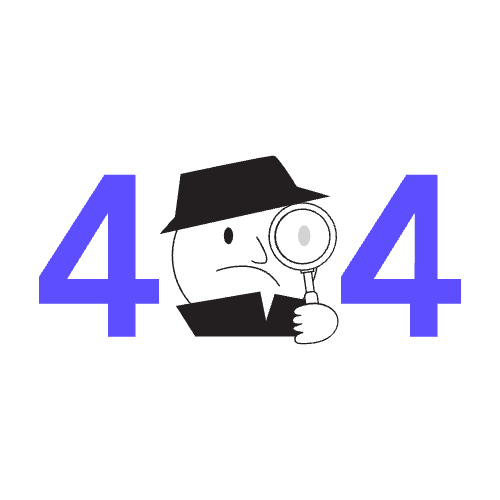
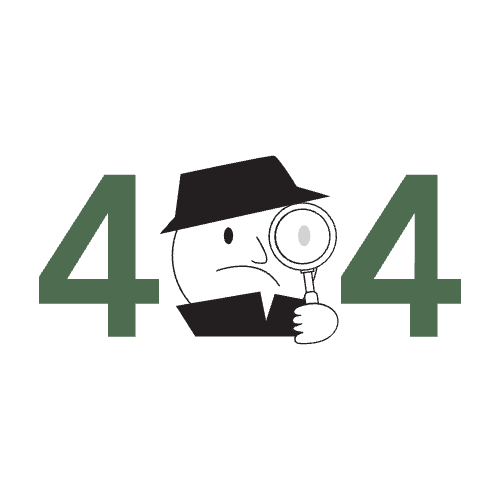
feat: updated colors and braniding

Changed region(s): [[0.66, 0.33, 0.93, 0.69], [0.06, 0.33, 0.33, 0.69]]

diff --git a/apps/web/src/styles/global.css b/apps/web/src/styles/global.css
@@ -17,6 +17,7 @@
   /*--font-mono: var(--font-geist), 'ui-monospace', 'SFMono-Regular', 'Menlo', 'Monaco', 'Consolas', '"Liberation Mono"', '"Courier New"', 'monospace';*/
 
   --font-sans: "Geist Sans", sans-serif;
+  --font-header: "Caveat", cursive;
 
   --color-border: var(--border);
   --color-input: var(--input);
@@ -75,7 +76,10 @@
     --fg: oklch(0.15 0.03 70);
 
     /* Keep primary indigo */
-    --primary: oklch(0.555 0.233 277.117);
+    /* --primary: oklch(0.555 0.233 277.117); */
+    /* --primary: oklch(41.1% 0.0366 160.56); */
+    /* --primary: oklch(49.86% 0.1084 162.4); */
+    --primary: oklch(42.5% 0.095 162.4);
     --primary-fg: oklch(1 0 0);
 
     /* Secondary as variation of black in light mode */
@@ -153,7 +157,8 @@
     --fg: oklch(0.98 0.005 80);
 
     /* Keep primary indigo */
-    --primary: oklch(0.585 0.233 277.117);
+    /* --primary: oklch(0.585 0.233 277.117); */
+    --primary: oklch(41.1% 0.0366 160.56);
     --primary-fg: oklch(1 0 0);
 
     /* Secondary as variation of white in dark mode */
@@ -197,7 +202,9 @@
     --sidebar-fg: oklch(0.98 0.005 80);
 
     /* Add one off colors for dark mode - slightly adjusted for dark background */
-    --light-blue: oklch(0.75 0.08 240); /* Light blue for mascot & buttons */
+    --light-blue: oklch(
+      88.64% 0.048 259.1
+    ); /* Light blue for mascot & buttons */
     --light-pink: oklch(0.8 0.09 20); /* Light pink panel background */
     --light-yellow: oklch(0.85 0.09 90); /* Light yellow panel background */
     --light-purple: oklch(0.65 0.18 300); /* Purple for tip button */
